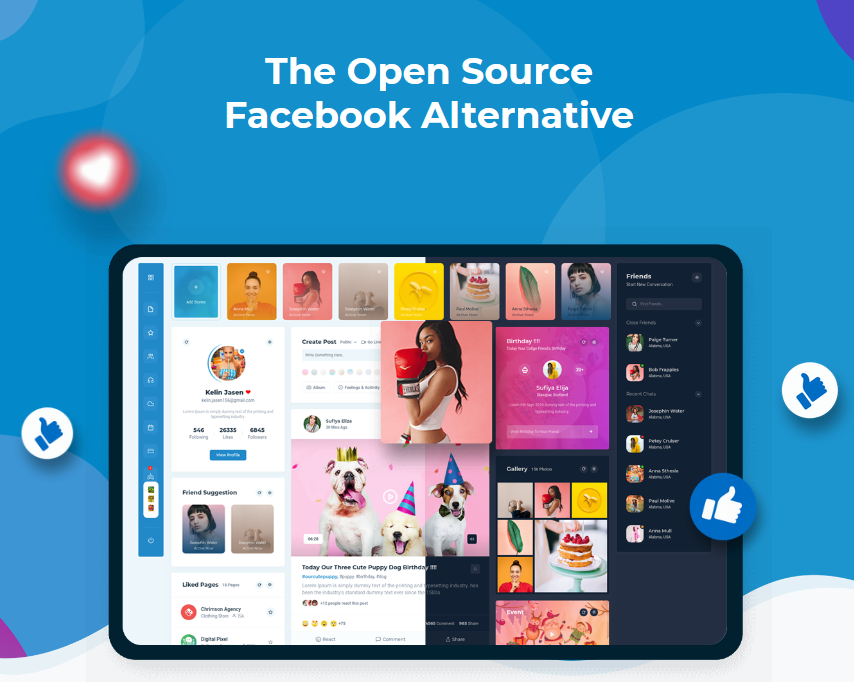
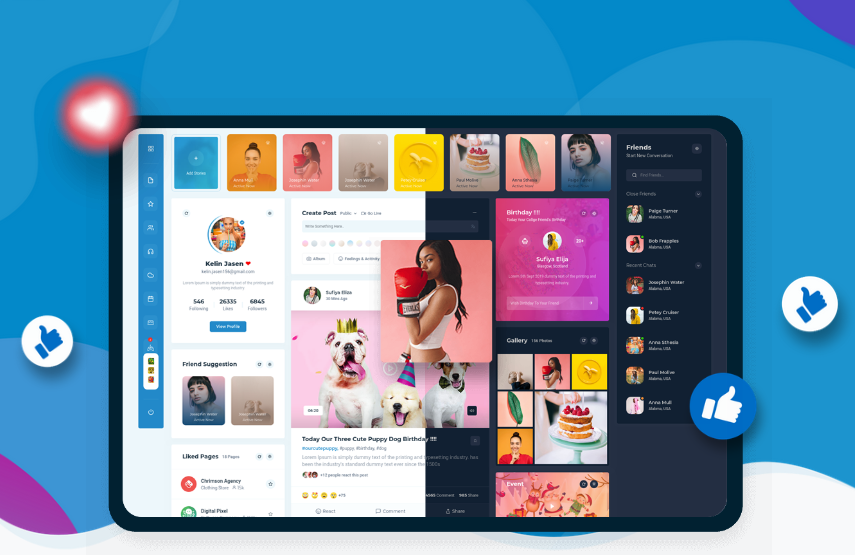
Update FB poster

diff --git a/src/pages/index.tsx b/src/pages/index.tsx
@@ -22,7 +22,7 @@ const Home: React.FC = () => {
         <meta itemProp="title" content="pokebase" />
         <meta itemProp="keywords" content="open source,pokebase,facebook alternative" />
         <meta itemProp="description" content="The Open Source Facebook Alternative" />
-        <meta itemProp="image" content="https://pokebase.vercel.app/img/pokebase-poster.png?v=0.2" />
+        <meta itemProp="image" content="https://pokebase.vercel.app/img/pokebase-poster.png?v=0.3" />
         {/** Facebook Open Graph data **/}
         <meta property="og:type" content="website" />
         <meta property="og:url" content="https://pokebase.vercel.app" />
@@ -30,14 +30,14 @@ const Home: React.FC = () => {
         <meta property="og:site_name" content="pokebase" />
         <meta property="og:title" content="pokebase" />
         <meta property="og:description" content="The Open Source Facebook Alternative" />
-        <meta property="og:image" content="https://pokebase.vercel.app/img/pokebase-poster.png?v=0.2" />
+        <meta property="og:image" content="https://pokebase.vercel.app/img/pokebase-poster.png?v=0.3" />
         {/** Twitter Card data **/}
         <meta name="twitter:card" content="summary" />
         <meta name="twitter:site" content="@publisher_handle" />
         <meta name="twitter:title" content="pokebase" />
         <meta name="twitter:description" content="The Open Source Facebook Alternative" />
         <meta name="twitter:creator" content="@author_handle" />
-        <meta name="twitter:image" content="https://pokebase.vercel.app/img/pokebase-poster.png?v=0.2" />
+        <meta name="twitter:image" content="https://pokebase.vercel.app/img/pokebase-poster.png?v=0.3" />
         {/** Title **/}
         <title>pokebase</title>
       </Head>
